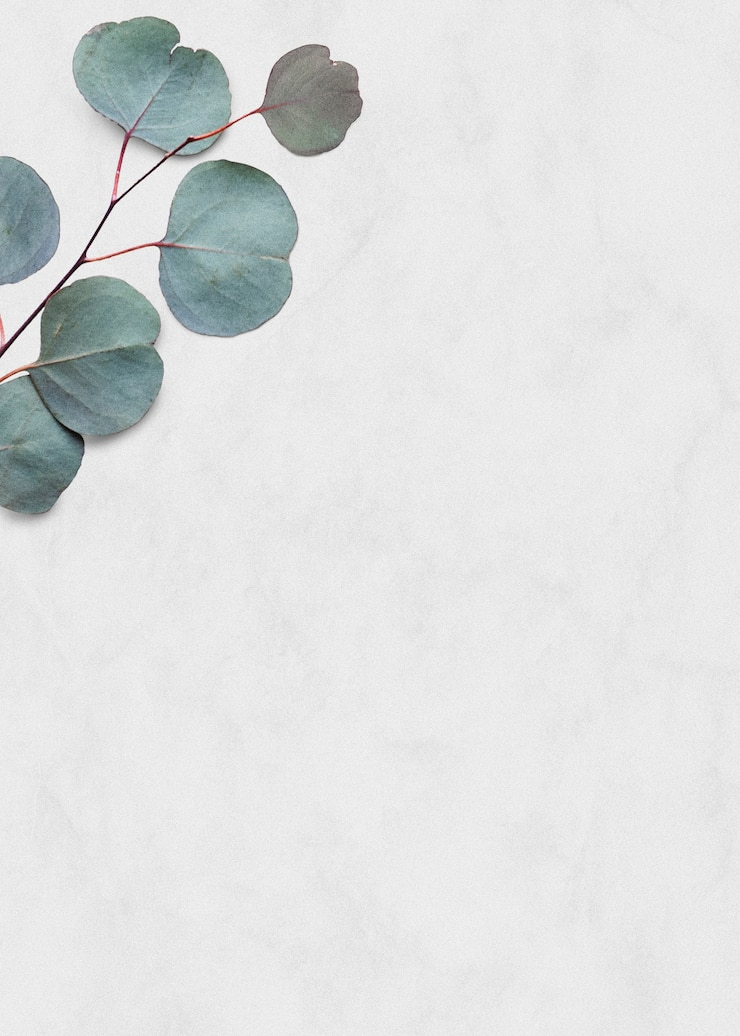
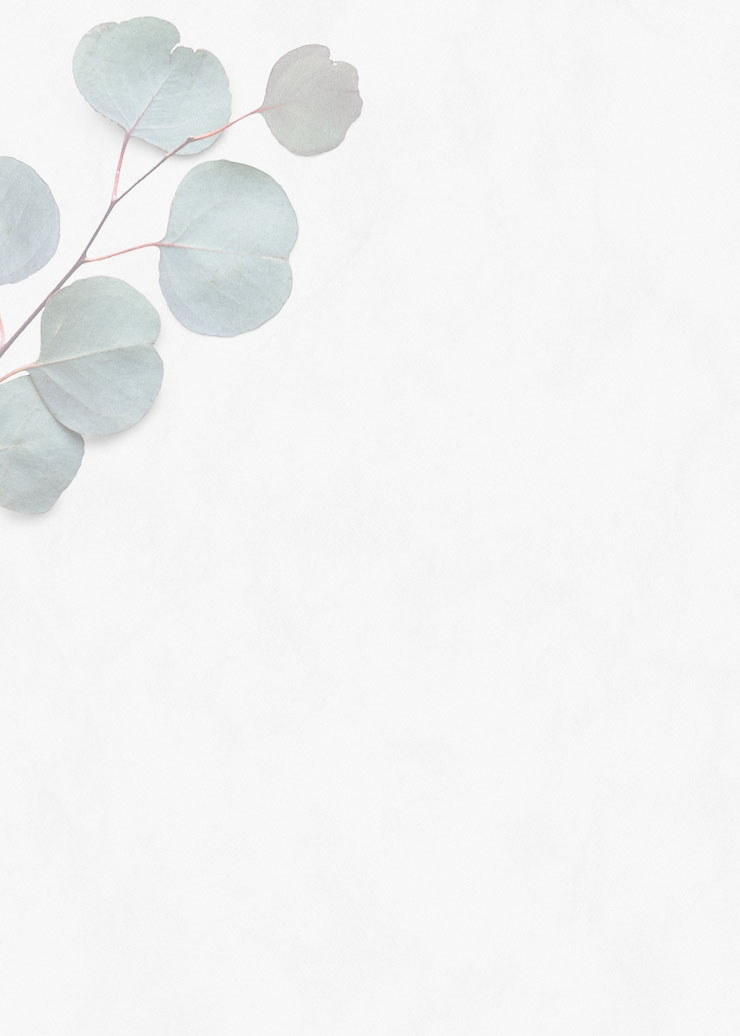
[FE] feat : Update background img
Former-commit-id: 3378c2bfa676a1b60bf31b93bee5cf62de143822

Changed region(s): [[0.0, 0.0, 0.4973, 0.5251]]

diff --git a/FE/plantinum/src/views/HomeView.vue b/FE/plantinum/src/views/HomeView.vue
@@ -423,13 +423,13 @@ div {
 
 .first-box-tablet {
   height: 800px;
-  background: linear-gradient(rgba(255, 255, 255, 0.6), rgba(255, 255, 255, 0.6)), url('../assets/HomeView/main_pic_1.jpg') top left;
+  background: url('../assets/HomeView/main_pic_1.jpg') top left;
   background-size: cover;
 }
 
 .first-box-mobile {
   height: 600px;
-  background: linear-gradient(rgba(255, 255, 255, 0.6), rgba(255, 255, 255, 0.6)), url('../assets/HomeView/main_pic_1.jpg') bottom left;
+  background: url('../assets/HomeView/main_pic_1.jpg') bottom left;
   background-size: cover;
 }
 

diff --git a/FE/plantinum/src/views/ProfileView.vue b/FE/plantinum/src/views/ProfileView.vue
@@ -34,7 +34,7 @@ export default {
 
 <style scoped>
 .profile {
-  background-image: linear-gradient(rgba(255, 255, 255, 0.6), rgba(255, 255, 255, 0.6)), url('@/assets/ProfileView/background_img.jpg');
+  background-image: url('@/assets/ProfileView/background_img.jpg');
   background-size: cover;
   height: 1200px;
 }

diff --git a/FE/plantinum/src/views/UpdatePasswordView.vue b/FE/plantinum/src/views/UpdatePasswordView.vue
@@ -22,7 +22,7 @@ export default {
 
 <style scoped>
 .profile {
-  background-image: linear-gradient(rgba(255, 255, 255, 0.6), rgba(255, 255, 255, 0.6)), url('@/assets/ProfileView/background_img.jpg');
+  background-image: url('@/assets/ProfileView/background_img.jpg');
   background-size: cover;
   height: 1000px;
 }

diff --git a/FE/plantinum/src/views/UpdateProfileView.vue b/FE/plantinum/src/views/UpdateProfileView.vue
@@ -25,7 +25,7 @@ export default {
 
 <style scoped>
 .profile {
-  background-image: linear-gradient(rgba(255, 255, 255, 0.6), rgba(255, 255, 255, 0.6)), url('@/assets/ProfileView/background_img.jpg');
+  background-image: url('@/assets/ProfileView/background_img.jpg');
   background-size: cover;
   height: 1000px;
 }
